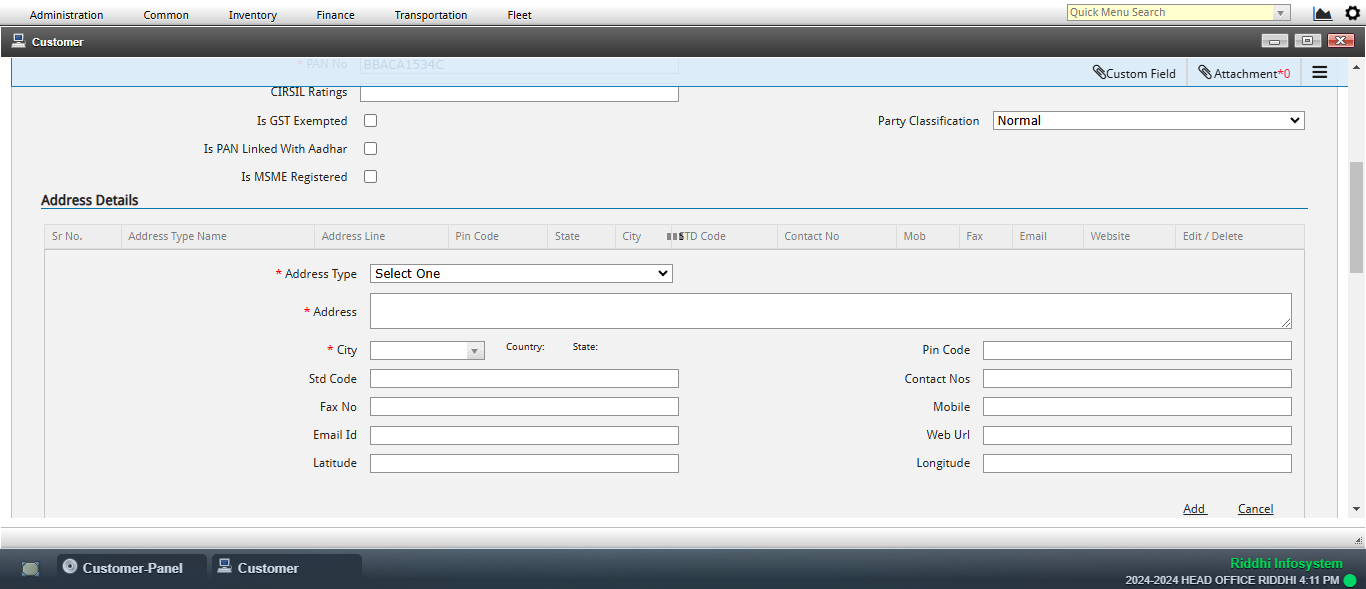
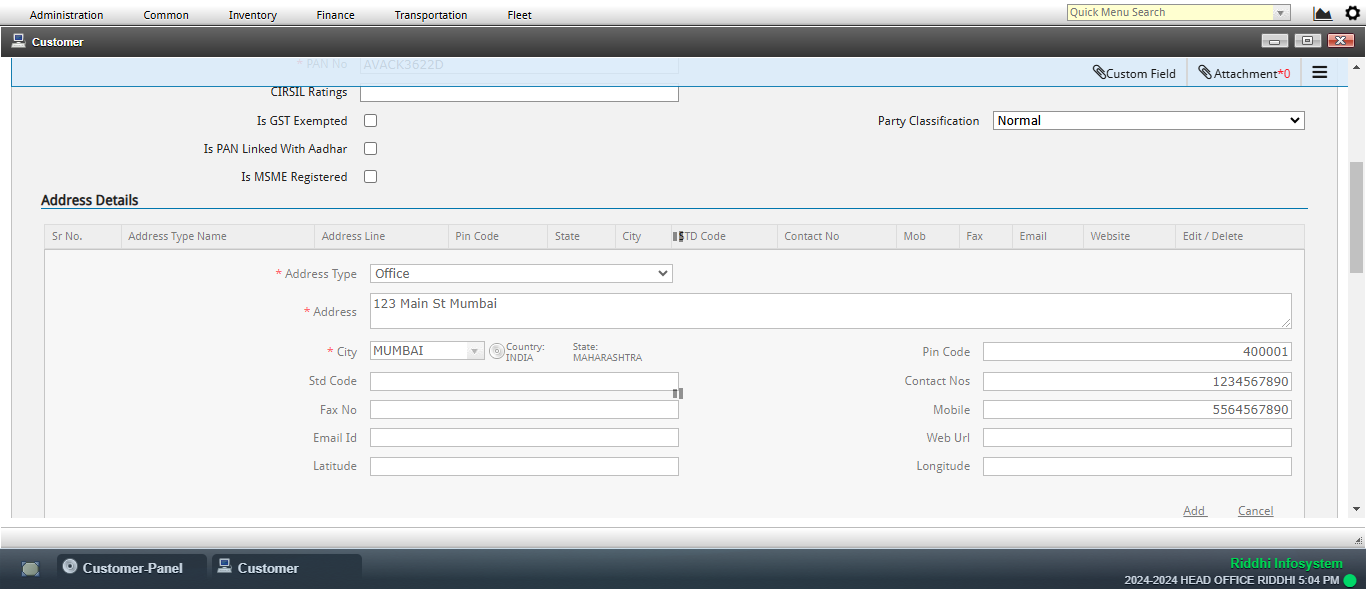
Commit

diff --git a/ERP Master/Customer_Master/customer_master.py b/ERP Master/Customer_Master/customer_master.py
@@ -1,4 +1,5 @@
 from selenium import webdriver
+from selenium.webdriver import Keys
 from selenium.webdriver.chrome.service import Service
 from selenium.webdriver.common.by import By
 from selenium.webdriver.support.select import Select
@@ -40,24 +41,31 @@ class CustomerMaster(unittest.TestCase):
         print(f"{value} updated to {option_text}")
 
     def autocomplete_select(self, by, value, text, timeout=10):
-        """Selects an option from an autocomplete dropdown."""
+        """Selects an option from an autocomplete dropdown by typing and choosing the first suggestion."""
         input_field = WebDriverWait(self.driver, timeout).until(
             EC.visibility_of_element_located((by, value))
         )
         input_field.clear()
-        input_field.send_keys(text)
+        input_field.send_keys(text)  # Step 1: Enter text
 
-        time.sleep(2)  # Wait for dropdown to load
+        time.sleep(3)  # Increase time for dropdown to load
 
+        # Wait until at least one suggestion appears
         suggestions = WebDriverWait(self.driver, timeout).until(
             EC.presence_of_all_elements_located((By.CLASS_NAME, "ui-menu-item"))
         )
 
         for suggestion in suggestions:
-            if text.lower() in suggestion.text.lower():
+            print(f"Suggestion found: {suggestion.text}")  # Debugging
+            if text.upper() in suggestion.text.upper():
                 suggestion.click()
-            print(f"Selected {text} from autocomplete")
-            return
+                print(f"Selected {text} from autocomplete")
+                return
+
+        # If no exact match, try arrow key + Enter
+        input_field.send_keys(Keys.DOWN)
+        input_field.send_keys(Keys.ENTER)
+        print(f"{value} updated with {text} using keyboard")
 
     def switch_frames(self, element_id):
         """Switches to the correct iframe containing the desired element."""
@@ -102,7 +110,7 @@ class CustomerMaster(unittest.TestCase):
 
         # Basic Information
         if self.switch_frames("Party_PartyName"):
-            self.send_keys(By.ID, "Party_PartyName", "LMN Industries Ltd")
+            self.send_keys(By.ID, "Party_PartyName", "Kadam Industries Ltd")
 
             self.dropdown_option(By.ID, "Party_PartyCategoryId", "GENERAL")
 
@@ -114,7 +122,7 @@ class CustomerMaster(unittest.TestCase):
         if self.switch_frames("EffectiveFromDate"):
             self.send_keys(By.ID, "EffectiveFromDate", "27-01-2025")
 
-            self.send_keys(By.ID, "PANNo", "AAACA3622D")
+            self.send_keys(By.ID, "PANNo", "AVACK3622D")
 
             driver.save_screenshot("Basic Details.png")
 
@@ -142,7 +150,7 @@ class CustomerMaster(unittest.TestCase):
         if self.switch_frames("RegistrationHeadId"):
             self.dropdown_option(By.ID, "RegistrationHeadId", "PAN No.")
 
-            self.send_keys(By.ID, "Number", "AOACA3622D")
+            self.send_keys(By.ID, "Number", "AVACK3622D")
 
             self.click_element(By.ID, "btnSave-RegistrationSession77")
 
@@ -187,7 +195,7 @@ class CustomerMaster(unittest.TestCase):
         if self.switch_frames("StateId"):
             self.dropdown_option(By.ID, "StateId", "MAHARASHTRA")
             self.dropdown_option(By.ID, "BusinessVerticalId", "TRANSPORTATION")
-            self.send_keys(By.ID, "GSTNumber", "27AALMN1234PSZO")
+            self.send_keys(By.ID, "GSTNumber", "27AVACK3622DSZO")
             self.click_element(By.ID, "btnSave-CustGSTRegistrationSession77")
             driver.save_screenshot("GST Registration.png")
 
@@ -198,7 +206,7 @@ class CustomerMaster(unittest.TestCase):
             driver.save_screenshot("Customer Record Created.png")
 
         if self.switch_frames("txt_search"):
-            self.send_keys(By.ID, "txt_search", "LMN Industries Ltd")
+            self.send_keys(By.ID, "txt_search", "Virwani Industries Ltd")
             self.click_element(By.ID, "btn_Seach")
             time.sleep(2)
             driver.save_screenshot("Search Results.png")
